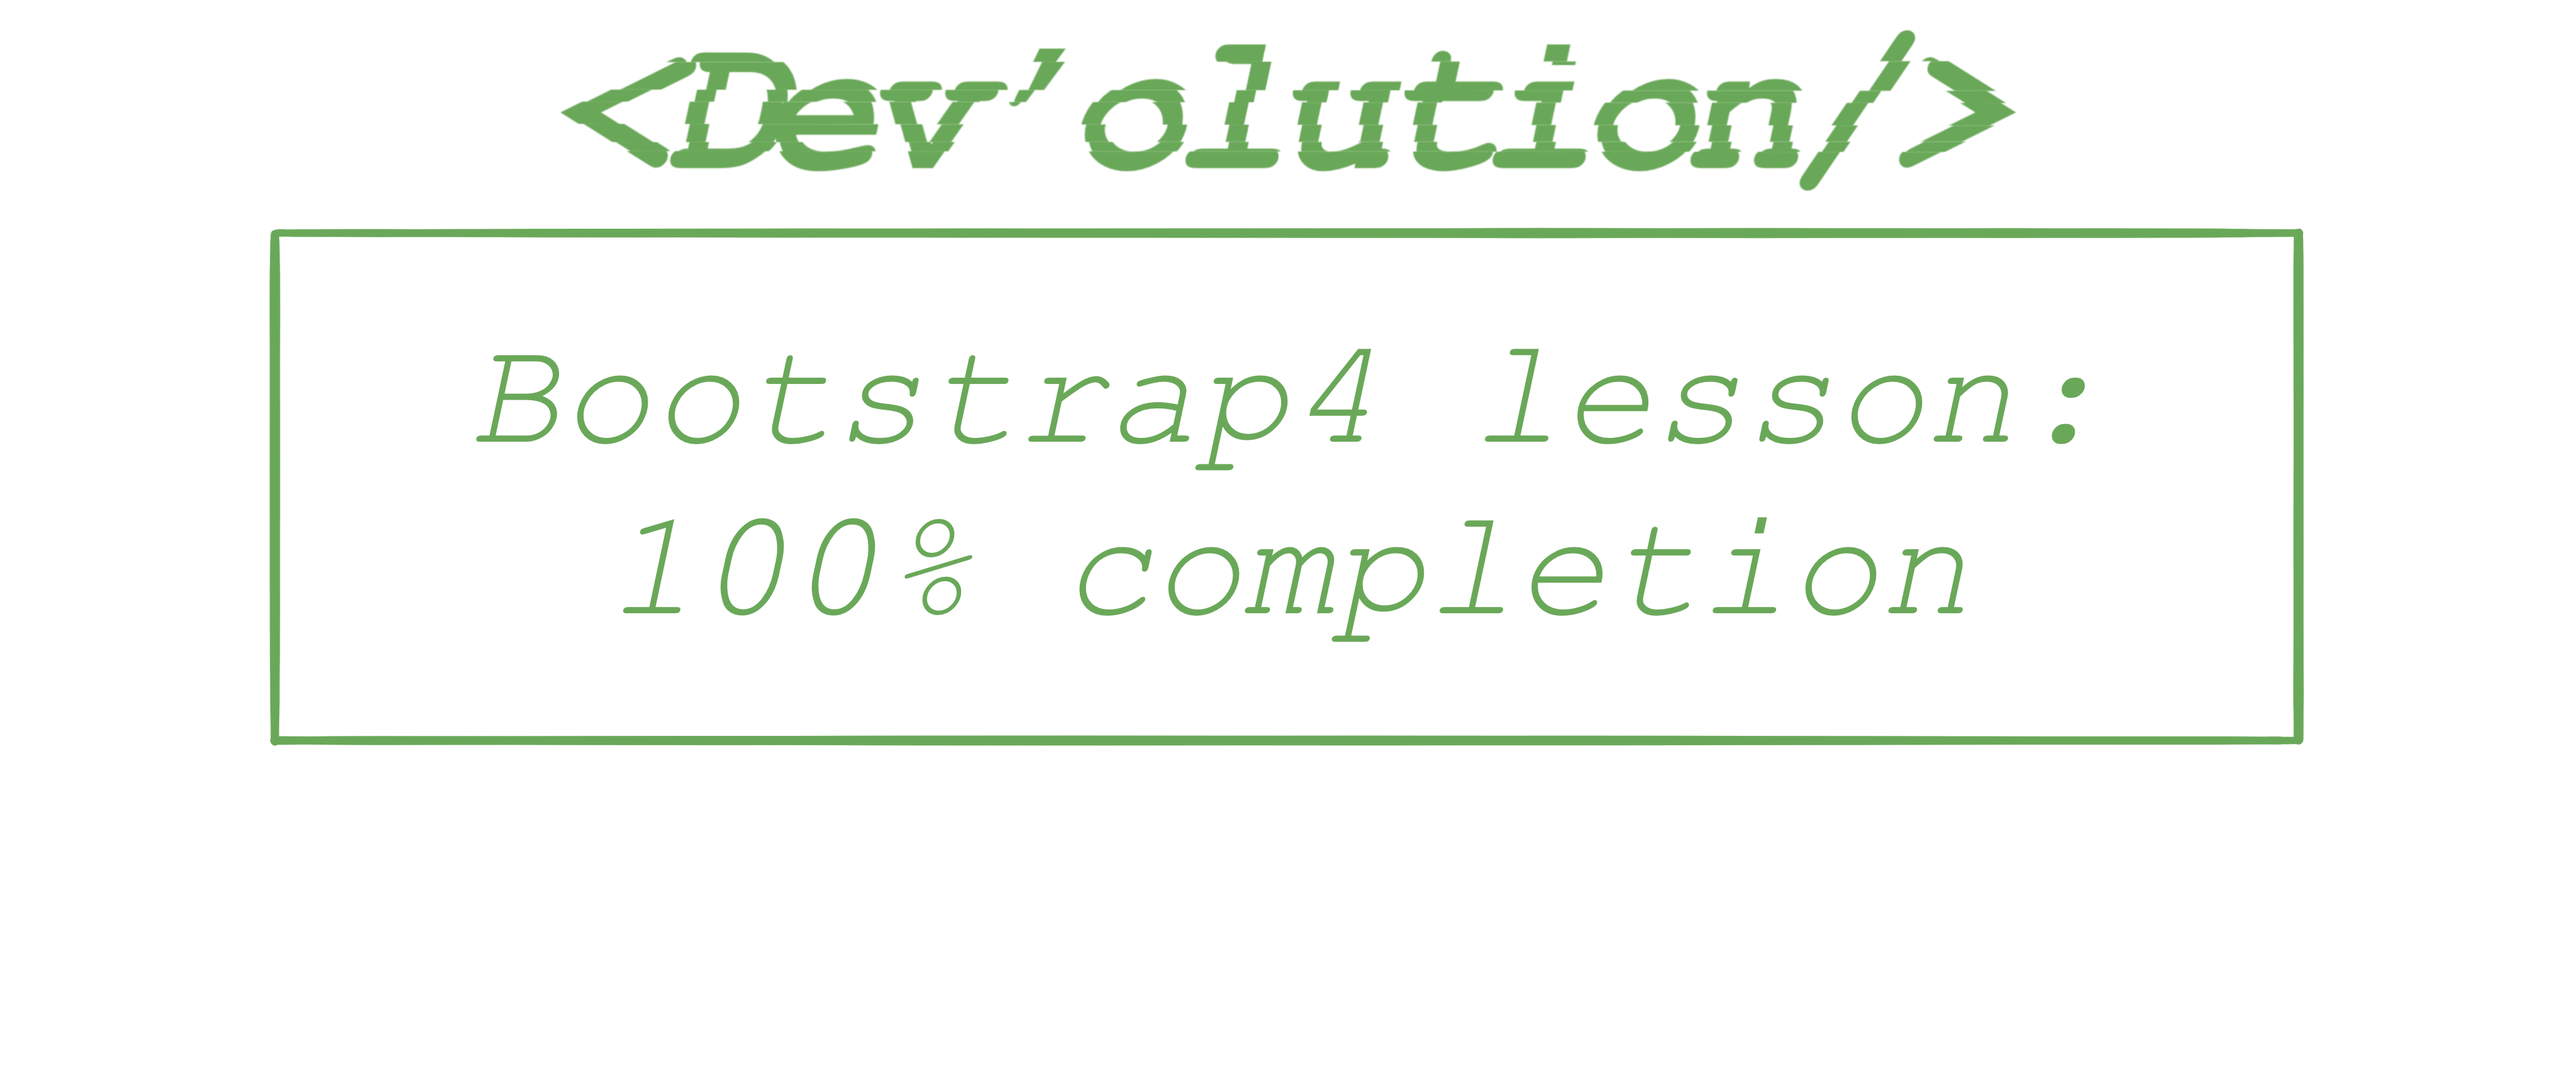
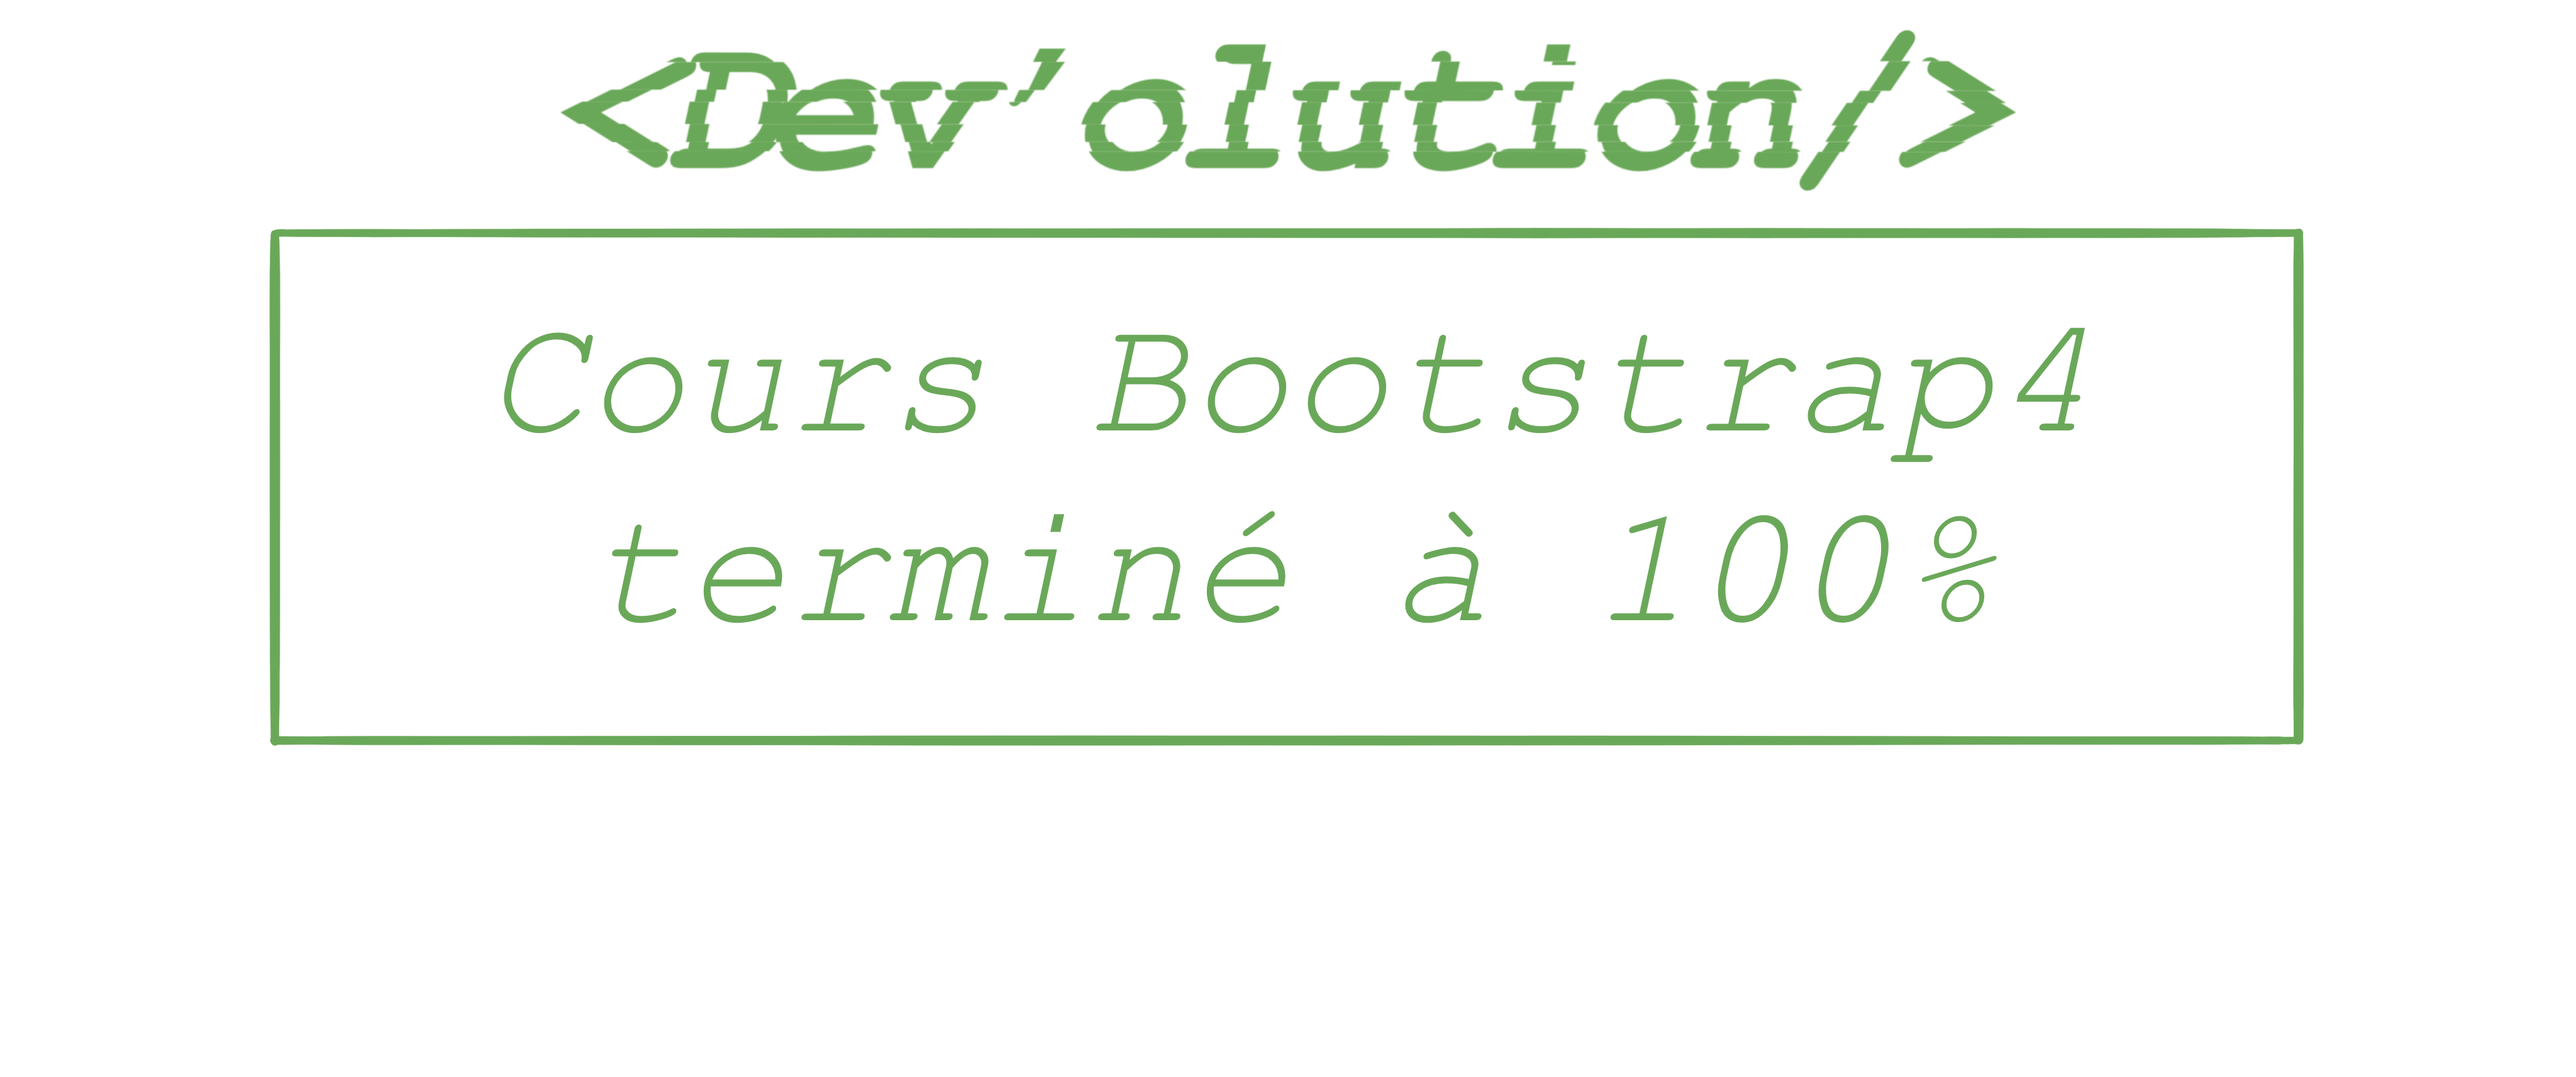
Fixed carousel details + men-leg + added content

Changed region(s): [[0.1875, 0.3092, 0.8125, 0.4329], [0.2188, 0.4638, 0.7812, 0.5875]]

diff --git a/public/html/en-version/home-en.html b/public/html/en-version/home-en.html
@@ -101,36 +101,36 @@
             class="carousel slide carousel-fade"
             data-ride="carousel"
           >
-          <ol class="carousel-indicators"> <!--  d-none d-md-block -->
+          <ol class="carousel-indicators" style="margin-bottom: -0.1rem;"> <!--  d-none d-md-block -->
             <li data-target="#carouselExampleIndicators" data-slide-to="0" class="active"></li>
             <li data-target="#carouselExampleIndicators" data-slide-to="1"></li>
           </ol>
-            <div class="carousel-inner"> <!-- style="height: 30rem"-->
-              <div class="carousel-item active" data-interval="10000">
+            <div class="carousel-inner">
+              <div class="carousel-item active">
                 <img
-                  src="..\..\img\logos\Dev’Ovultion_Logo.PNG"
+                  src="..\..\img\carousel\devolution\bootstrap-en.png"
                   class="d-block w-100"
-                  alt="Dev'Olution Logo" 
+                  alt="Dev'Olution Bootstrap4 lesson 100% completed" 
                 />
-                <div class="carousel-caption d-none d-md-block">
+                <div class="carousel-caption d-block w-100">
                   <h5>Dev'Olution</h5>
-                  <p>This is a carousel caption example</p>
+                  <p>I reached 100% completion on the Bootstrap4 lesson.</p>
                   <button type="button" class="btn-sm btn-secondary">
-                    <a class="btn-sm btn-secondary" href="https://elite-topaz-1af.notion.site/Dev-olution-2950572be2ad4da4a600c90c40643032">Visit Dev'Olution</a>>
+                    <a class="btn-sm btn-secondary" href="#">See my progress</a>>
                   </button>
                 </div>
               </div>
-              <div class="carousel-item" data-interval="10000">
+              <div class="carousel-item">
                 <img
-                  src="..\..\img\logos\Queen_Of_Mean_Logo.PNG"
+                  src="..\..\img\carousel\qom\clubsport-orange.jpg"
                   class="d-block w-100"
-                  alt="Queen of Mean logo"
+                  alt="Queen of Mean Clubsport Orange is now available"
                 />
-                <div class="carousel-caption d-none d-md-block">
+                <div class="carousel-caption d-block w-100">
                   <h5>Queen of Mean</h5>
-                  <p>This is a carousel caption example</p>
+                  <p>The Queen of Mean Clubsport is now available !</p>
                   <button type="button" class="btn-sm btn-secondary">
-                    <a class="btn-sm btn-secondary" href="#">Visit Queen of Mean</a>>
+                    <a class="btn-sm btn-secondary" href="#">Discover it</a>>
                   </button>
                 </div>
               </div>

diff --git a/index.html b/index.html
@@ -101,36 +101,36 @@
             class="carousel slide carousel-fade"
             data-ride="carousel"
           >
-          <ol class="carousel-indicators"> <!--  d-none d-md-block -->
+          <ol class="carousel-indicators" style="margin-bottom: -0.1rem;"> <!--  d-none d-md-block -->
             <li data-target="#carouselExampleIndicators" data-slide-to="0" class="active"></li>
             <li data-target="#carouselExampleIndicators" data-slide-to="1"></li>
           </ol>
             <div class="carousel-inner">
               <div class="carousel-item active">
                 <img
-                  src="public\img\logos\Dev’Ovultion_Logo.PNG"
+                  src="public\img\carousel\devolution\bootstrap.png"
                   class="d-block w-100"
-                  alt="Dev'Olution Logo" 
+                  alt="Dev'Olution Bootstrap4 lesson 100% completed" 
                 />
-                <div class="carousel-caption d-none d-md-block">
+                <div class="carousel-caption d-block w-100">
                   <h5>Dev'Olution</h5>
-                  <p>Ceci est un exemple de caption pour le carousel</p>
+                  <p>Le cours sur Bootstrap4 a été terminé à 100%.</p>
                   <button type="button" class="btn-sm btn-secondary">
-                    <a class="btn-sm btn-secondary" href="#">Visiter Dev'Olution</a>>
+                    <a class="btn-sm btn-secondary" href="#">Voir ma progression</a>>
                   </button>
                 </div>
               </div>
               <div class="carousel-item">
                 <img
-                  src="public\img\logos\Queen_Of_Mean_Logo.PNG"
+                  src="public\img\carousel\qom\clubsport-orange.jpg"
                   class="d-block w-100"
-                  alt="Queen of Mean logo"
+                  alt="Queen of Mean Clubsport Orange is now available"
                 />
-                <div class="carousel-caption d-none d-md-block">
+                <div class="carousel-caption d-block w-100">
                   <h5>Queen of Mean</h5>
-                  <p>Ceci est un exemple de caption pour le carousel</p>
+                  <p>La Queen of Mean Clubsport est maintenant disponible !</p>
                   <button type="button" class="btn-sm btn-secondary">
-                    <a class="btn-sm btn-secondary" href="#">Visiter Queen of Mean</a>>
+                    <a class="btn-sm btn-secondary" href="#">La découvrir</a>>
                   </button>
                 </div>
               </div>

diff --git a/public/html/pages/mentions-legales.html b/public/html/pages/mentions-legales.html
@@ -72,7 +72,7 @@
             <div class="col-md-6 my-3 text-secondary">
                 <h2>Informations générales concernant le créateur du site</h2>
                 <br />
-                Ce site a été entièrement créé par Monsieur THEVENEAU Cédric, résident en Essonne, Île-de-France.
+                Ce site a été entièrement créé par Monsieur THEVENEAU Cédric, résident en Essonne, Île-de-France; France.
                 <br />
                 Si vous avez besoin d'effectuer une requête, n'hésitez pas à m'envoyer un email à l'adresse suivante: theveneaucedric@gmail.com en précisant comme objet 'Le Hub - Requête', je ferai en sorte d'y répondre dans les plus brefs délais. 
             </div>

diff --git a/public/css/styles.css b/public/css/styles.css
@@ -13,12 +13,21 @@
   margin-left: -0.5rem;
 }
 
+p {
+  margin-top: 0;
+  margin-bottom: 0.3rem;
+}
+
 h1 {
   color: #4f4db8;
 }
 
 h2 {
   color: #807ee9;
+}
+
+h5 {
+  margin-bottom: -0.1rem;
 }
 
 h6 {
@@ -35,4 +44,18 @@ h6 {
 
 .card-title {
   color: #807ee9;
+}
+
+.carousel-caption {
+  background-color: hsl(0, 0%, 0%, 0.2);
+  /* width: 58.1rem; */
+  position: absolute;
+  bottom: 0px;
+  left: 0%;
+  z-index: 10;
+  padding-top: 2px;
+  padding-bottom: 20px;
+  /* margin-inline: -11rem; */
+  color: #fff;
+  text-align: center;
 }
